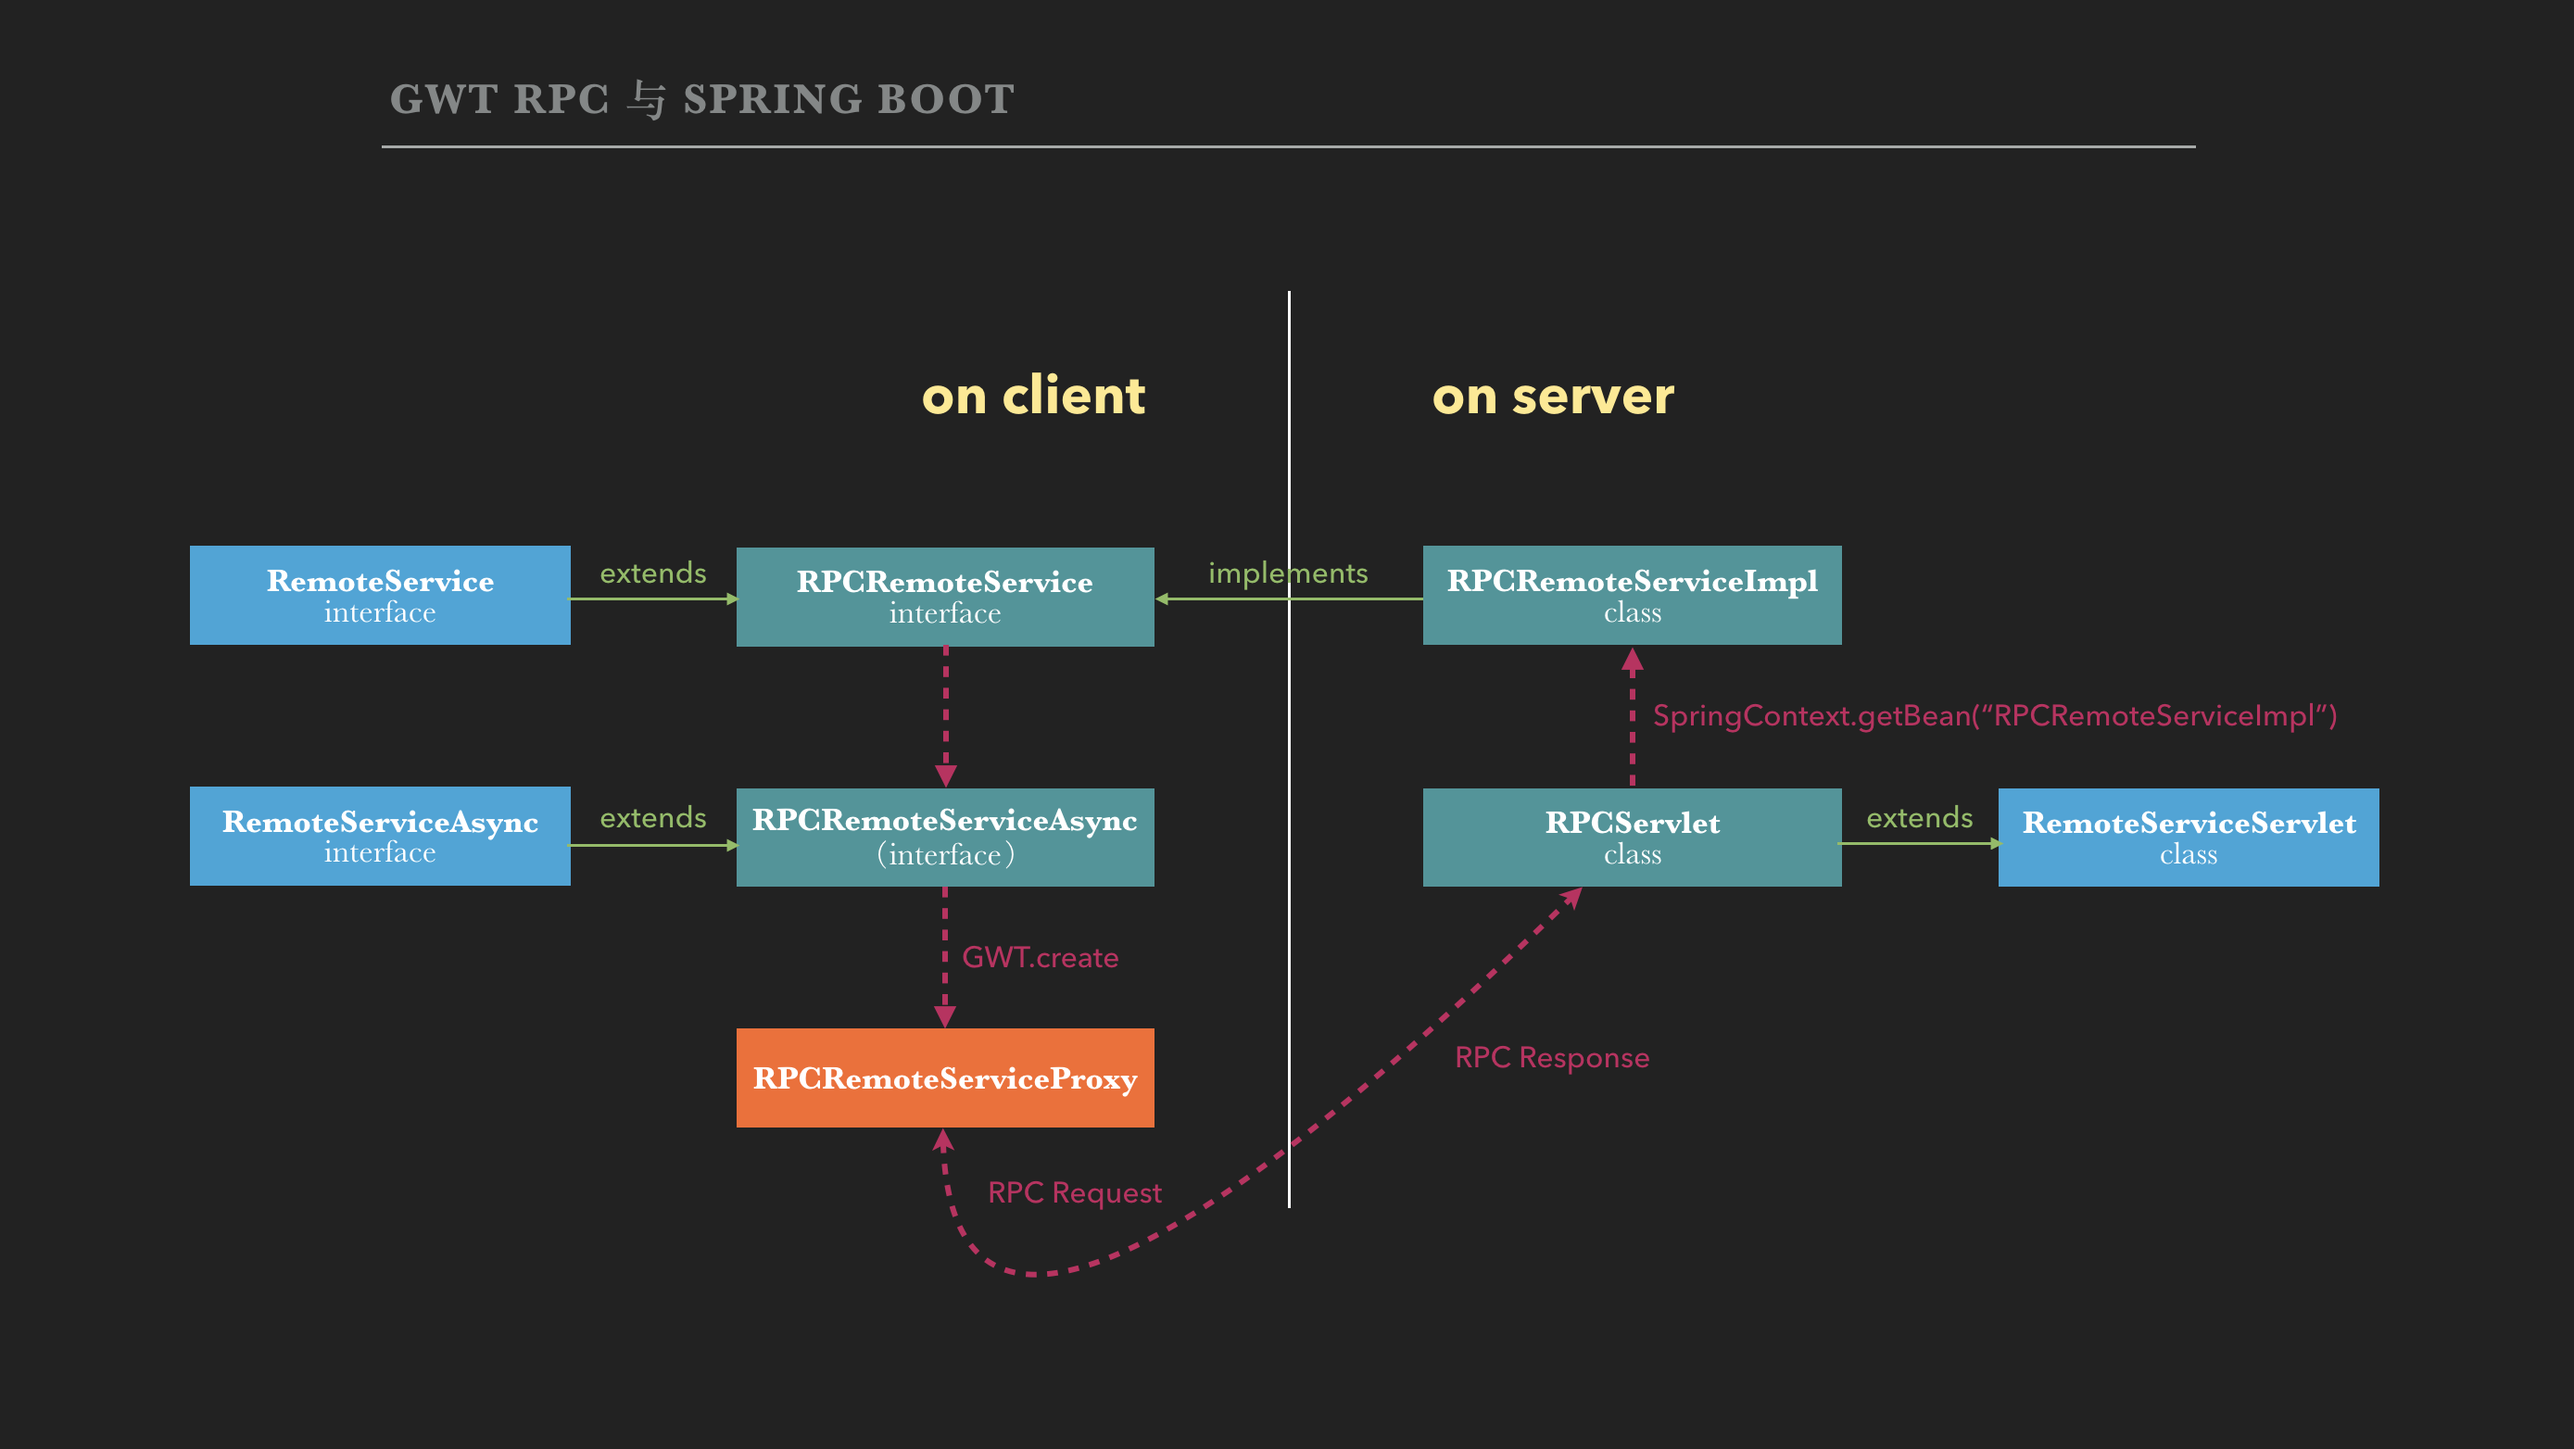
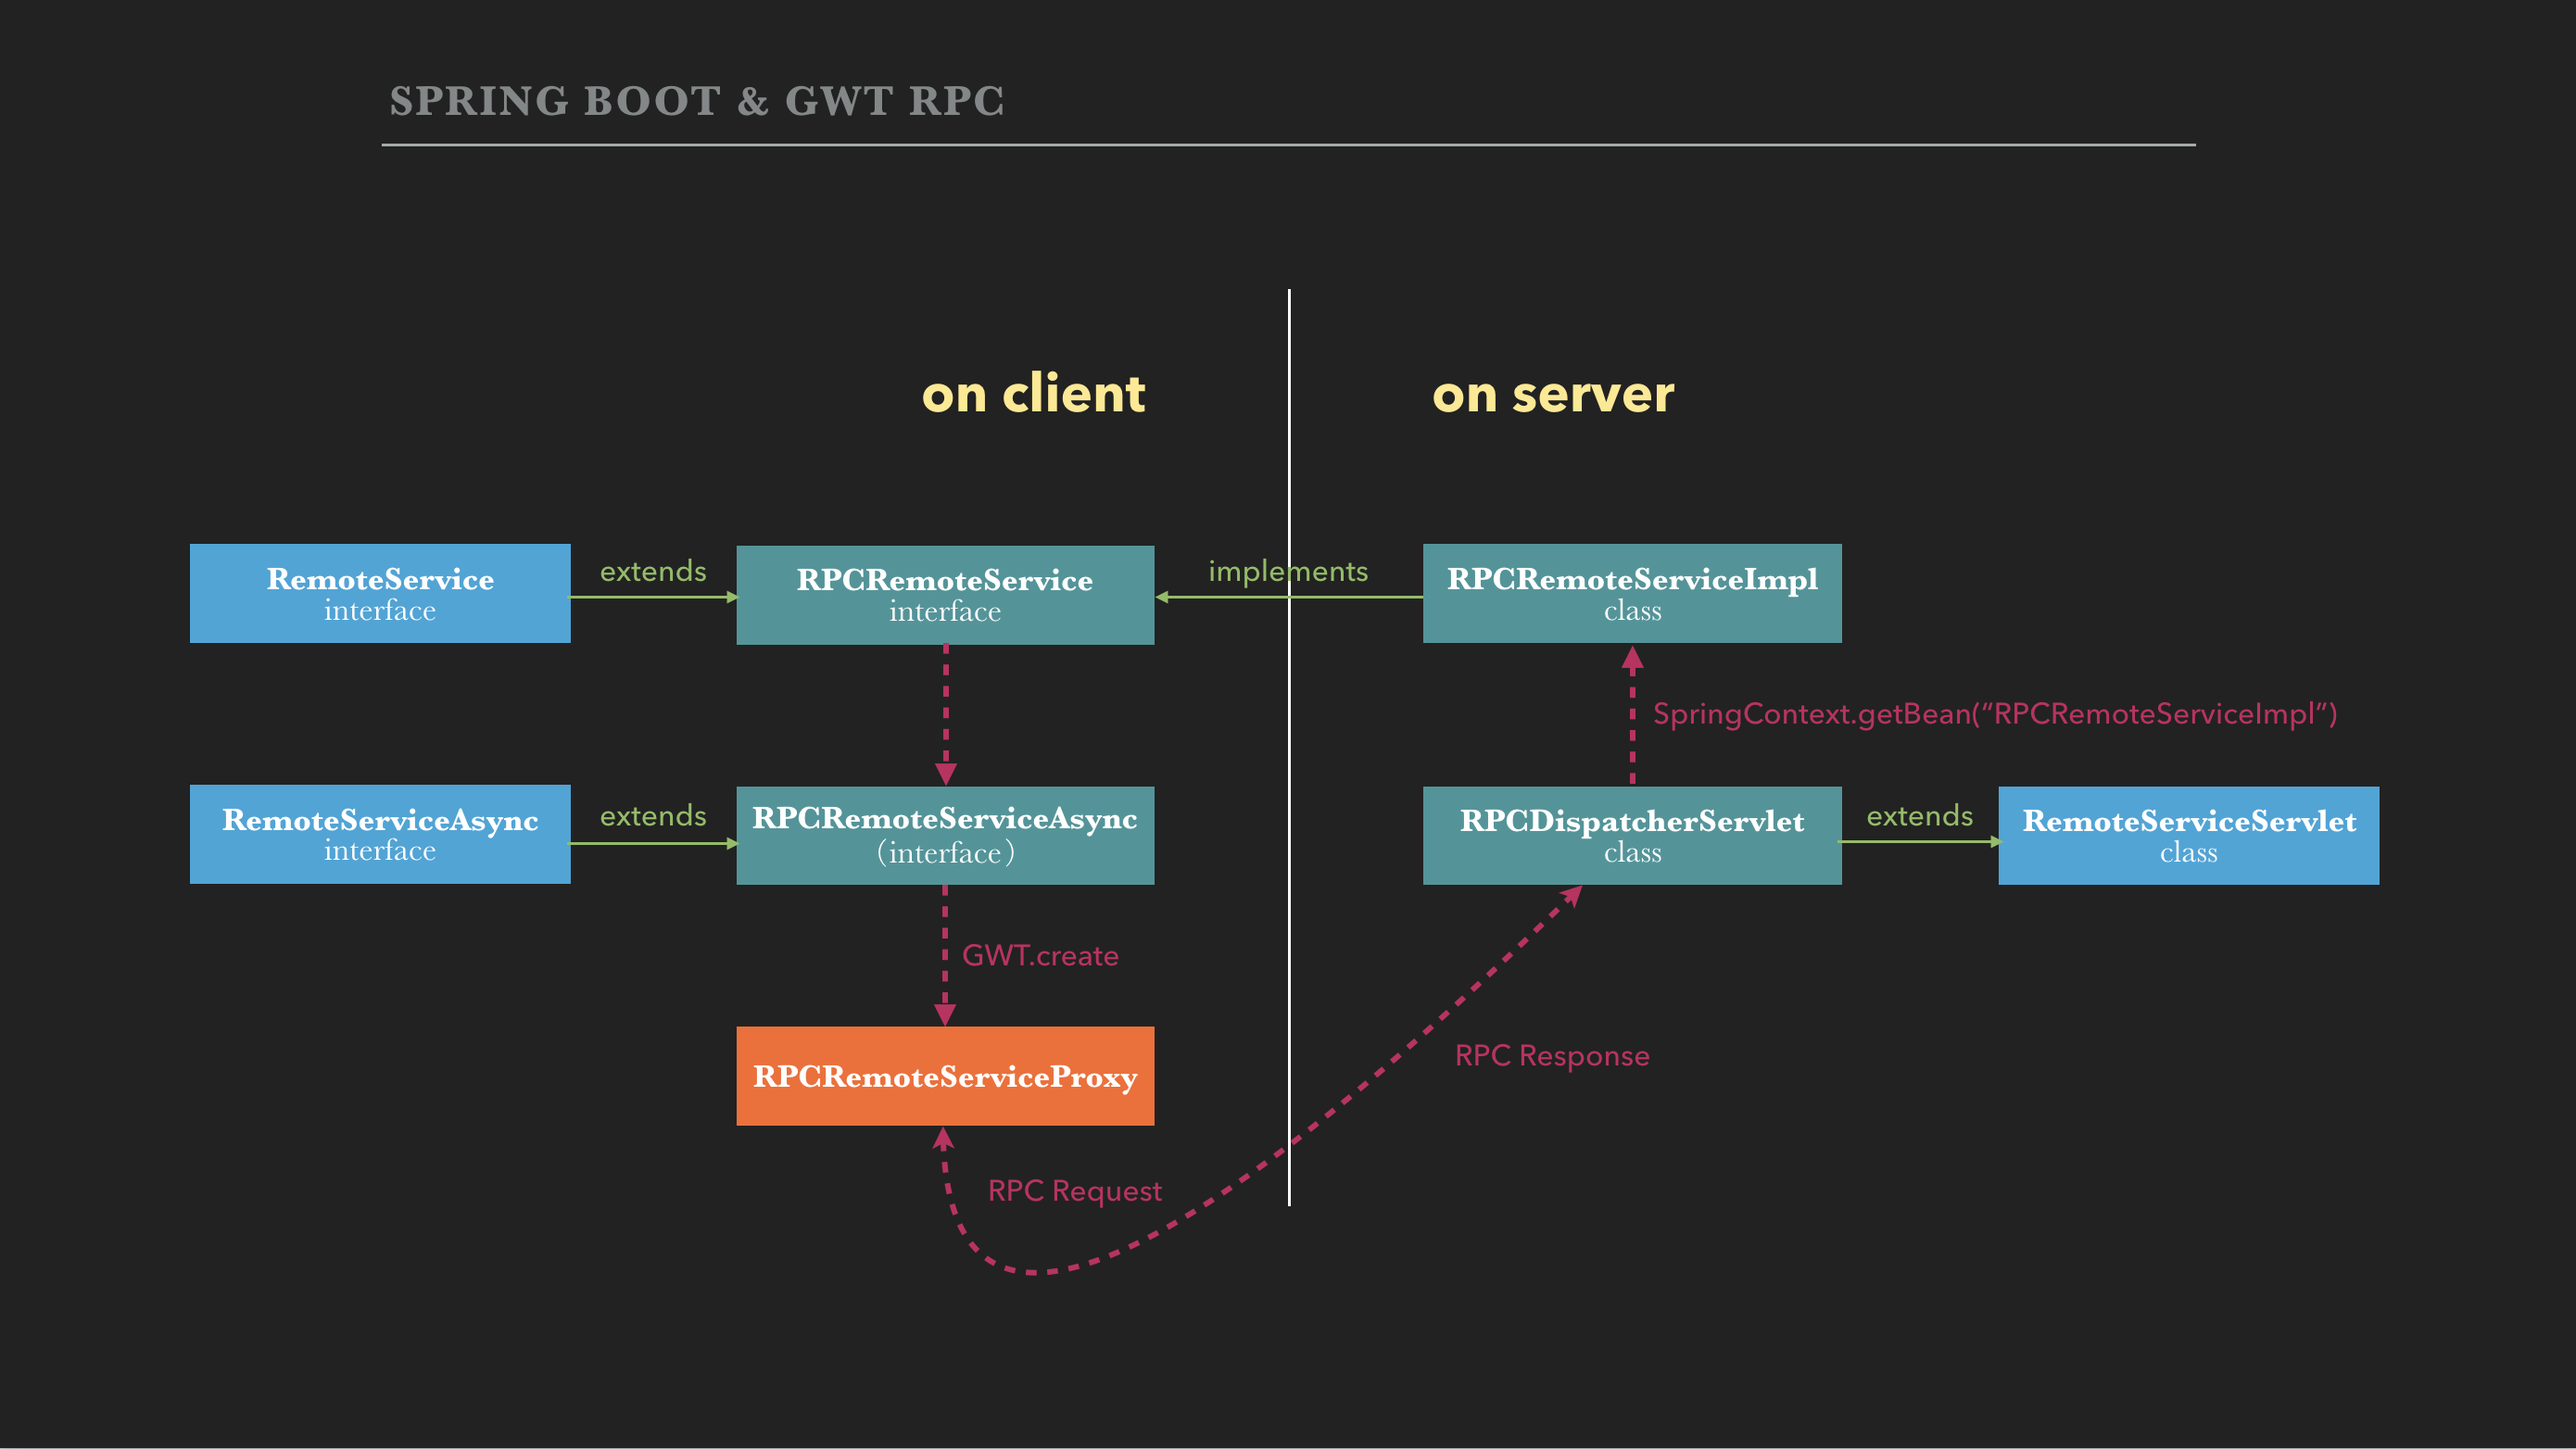
简单重构

diff --git a/src/main/java/com/pxa/sample/server/web/servlet/RPCDispatcherServlet.java b/src/main/java/com/pxa/sample/server/web/servlet/RPCDispatcherServlet.java
@@ -19,10 +19,10 @@ import javax.servlet.http.HttpServletRequest;
  * @author: <a href="mailto:xiaoan.pan@qq.com">潘小安</a>
  * @since: 2018-01-10 19:06
  */
-@WebServlet(urlPatterns = "/www/rpc/*", description = "RPC Servlet")
-public class RPCServlet extends RemoteServiceServlet {
+@WebServlet(name = "rpcDispatcherServlet", urlPatterns = "/www/rpc/*", description = "RPC Servlet")
+public class RPCDispatcherServlet extends RemoteServiceServlet {
 
-    private final static Logger LOGGER = LoggerFactory.getLogger(RPCServlet.class);
+    private final static Logger LOGGER = LoggerFactory.getLogger(RPCDispatcherServlet.class);
 
     private WebApplicationContext applicationContext = null;
 
@@ -31,7 +31,7 @@ public class RPCServlet extends RemoteServiceServlet {
         if (applicationContext == null) {
             applicationContext = WebApplicationContextUtils.getWebApplicationContext(getServletContext());
         }
-        LOGGER.info(">>> RPCServlet init success...{}", applicationContext);
+        LOGGER.info(">>> RPCDispatcherServlet init success...{}", applicationContext);
     }
 
     @Override
